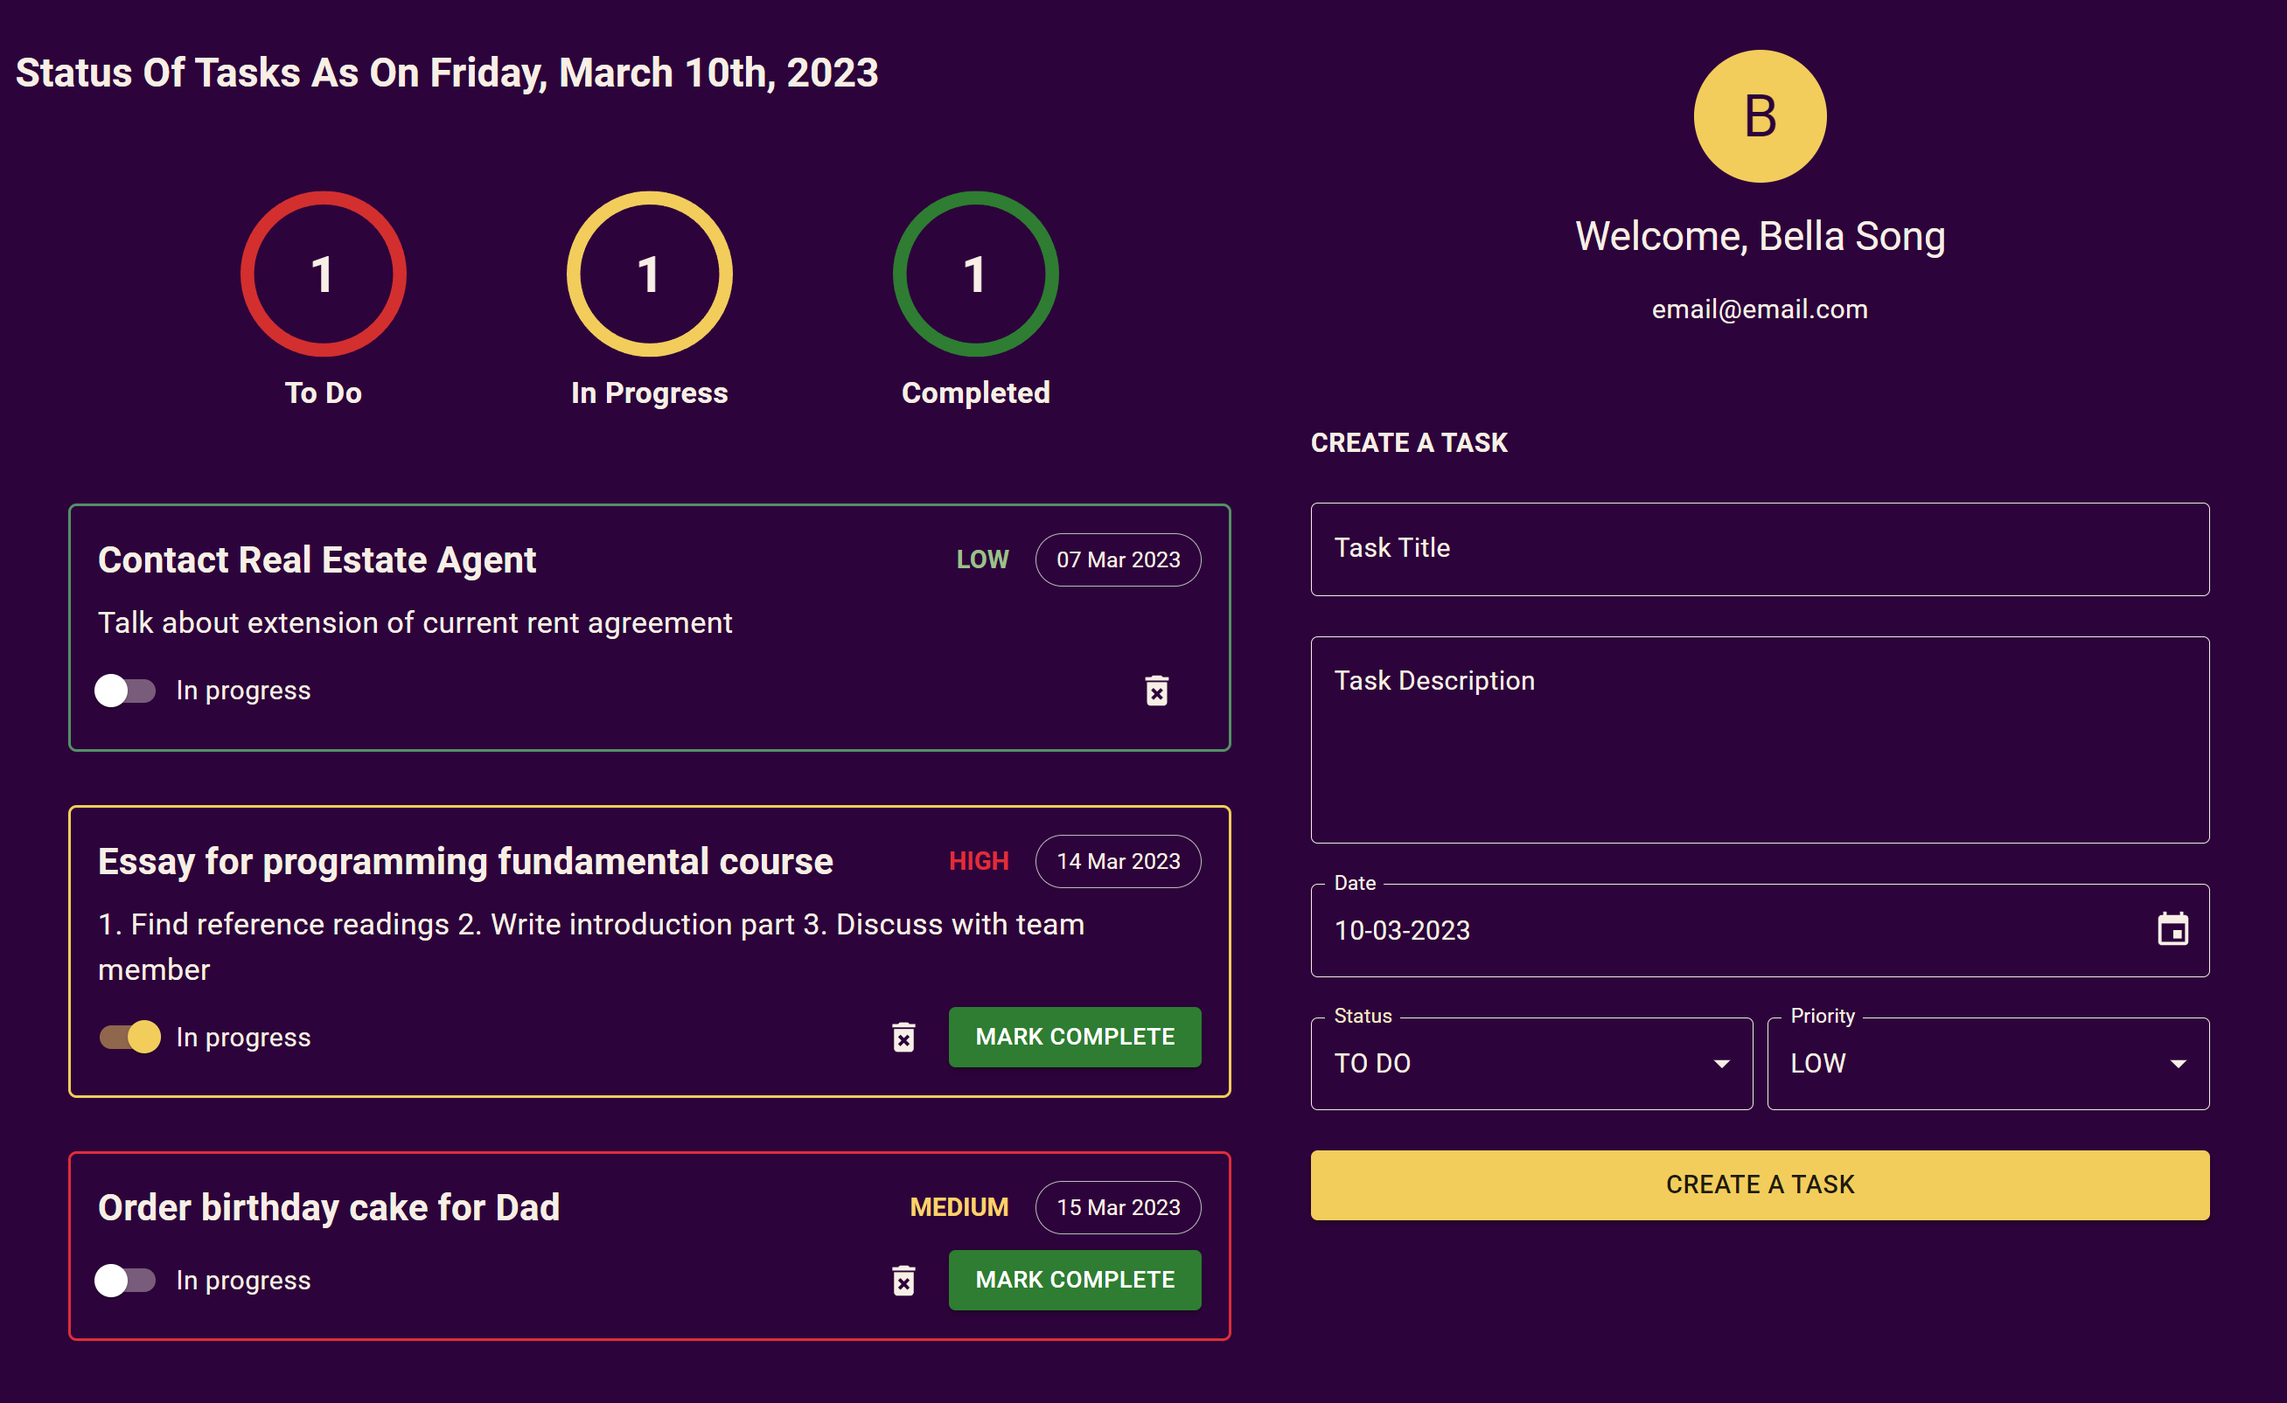
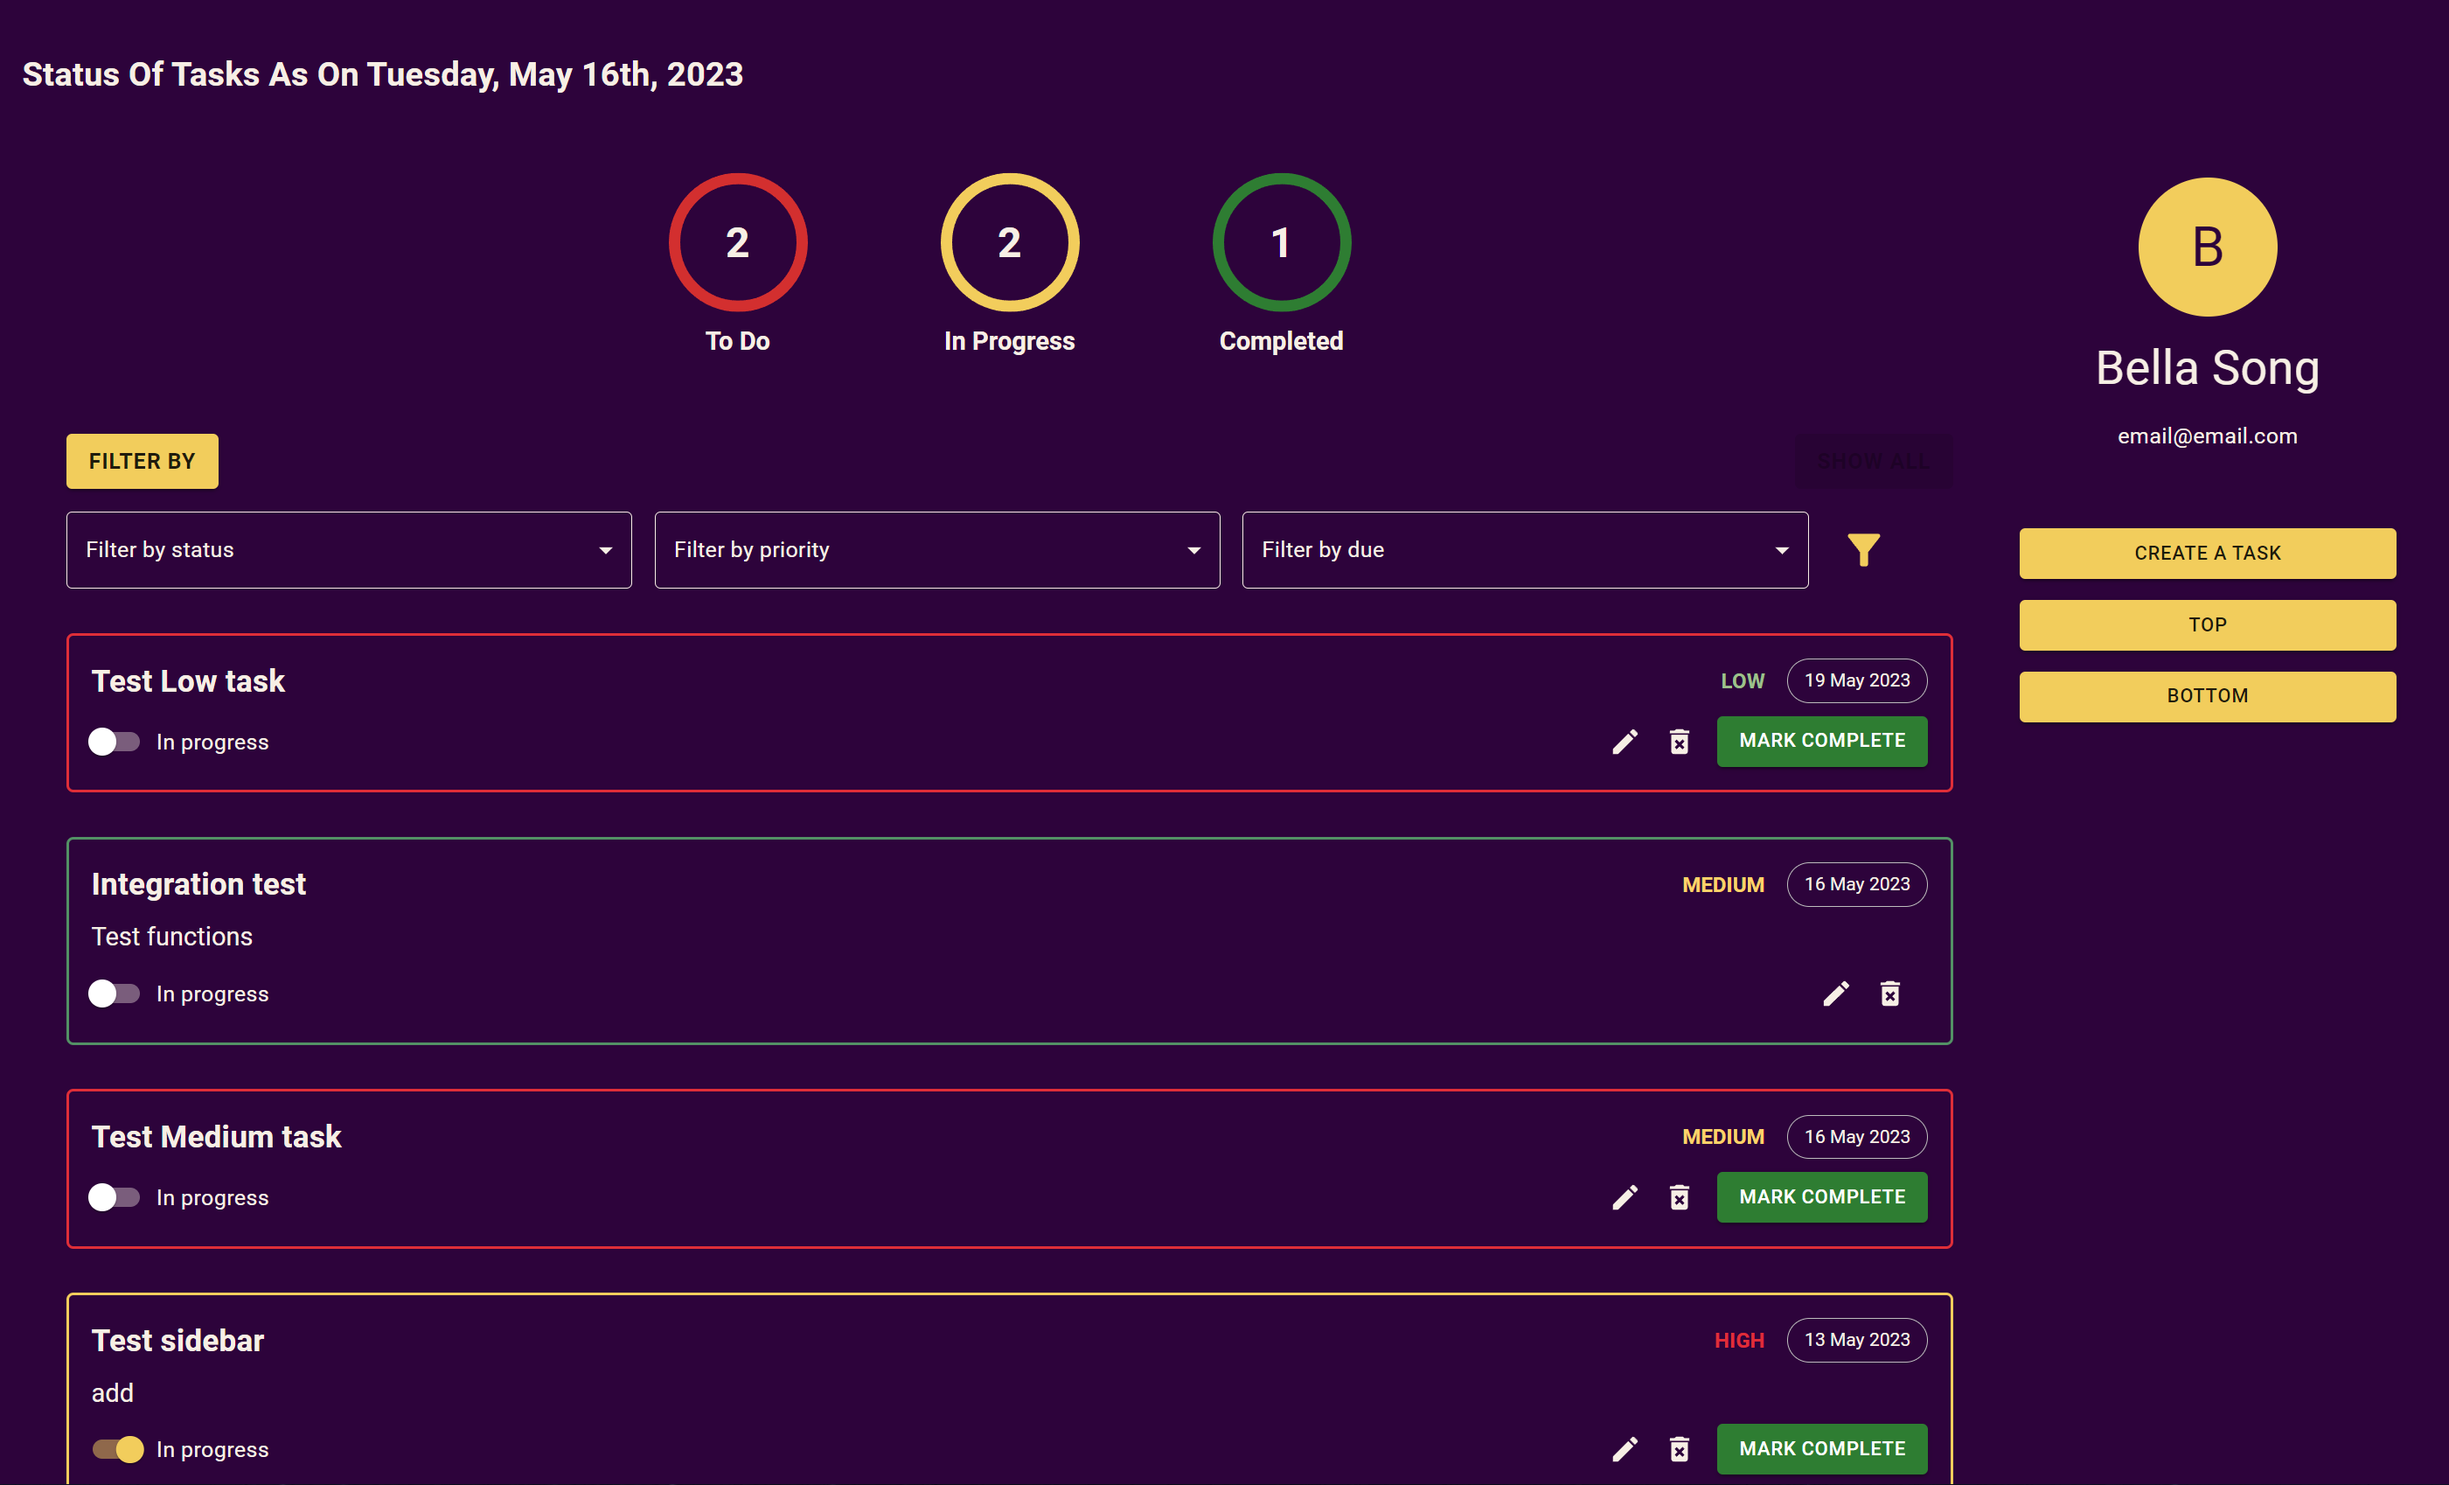
Update project information

diff --git a/index.html b/index.html
@@ -101,27 +101,22 @@
         <div class="card border-0">
           <div class="row g-0">
             <div class="col-md-4">
-              <img src="images/JPS.png" class="img-fluid rounded-start" />
+              <img src="images/JPS.png" class="img-fluid rounded" alt="jps" />
             </div>
             <div class="col-md-8">
               <div class="card-body">
-                <h5 class="card-title">Coachwise Application</h5>
+                <h5 class="card-title">Coachwise system</h5>
                 <ul>
                   <li>
                     A training system that includes a web application written by React and a mobile application by React
-                    Native. The backend APIs are built by Node, MariaDB and TypeScript. The applications are deployed on AWS.
+                    Native. The backend APIs are built by Node, MariaDB and TypeScript.
                   </li>
-                  <li>
-                    The web application can manage clients, create training plans for clients and view clients' training
-                    history, and create training programs for other coaches to copy and edit.
-                  </li>
-                  <li>
-                    The mobile application is for clients to view their training plans and give feedbacks to coaches. Every
-                    exercise in plans has embedded Youtube video.
-                  </li>
-                  <li>The user can send text messages and also record voice messages in the chat panel on both ends.</li>
                 </ul>
-                <small><i>Because of company's confidential reason, the code of this project cannot be provided</i></small>
+                <small
+                  ><i
+                    >Because of company's confidential reason, the code and details of this project cannot be provided</i
+                  ></small
+                >
               </div>
             </div>
           </div>
@@ -130,22 +125,23 @@
         <div class="card border-0">
           <div class="row g-0">
             <div class="col-md-4">
-              <img src="images/taskManage.png" class="img-fluid rounded-start" />
+              <img src="images/taskManage.png" class="img-fluid rounded mb-2" alt="task-manage" />
+              <img src="images/createTask.png" class="img-fluid rounded" alt="task-create" />
             </div>
             <div class="col-md-8">
               <div class="card-body">
                 <h5 class="card-title">Task Management</h5>
                 <ul>
                   <li>
-                    A simple web-based task management project built with React, Node, TypeScript and MySQL. Backend is
-                    structured in MVC and communicates with database through typeORM. Both ends use strict types to make data
-                    type safe.
+                    A web-based task management project built with React, Node, TypeScript and MySQL. Backend is structured
+                    in MVC and communicates with database through typeORM. Both ends use strict types to make data type safe.
                   </li>
+                  <!-- <li>Highlights include combining to-do list with traditional task management tools.</li> -->
                   <li>
-                    Users can create tasks, view all tasks, change the status of a task and see the counts of tasks based on
-                    different status. Any input errors or API call failed will show error information on the screen.
+                    Users can create tasks, view all tasks, edit one task, change the status of a task and filter tasks. Any
+                    input errors or API call failed will show error information on the screen.
                   </li>
-                  <li>Material UI makes the interface styles consistent and user-friendly.</li>
+                  <li>Material UI makes the style in interface consistent and user-friendly.</li>
                   <li>
                     This is a scalable and maintainable project with reusable components and well-structured REST APIs.
                   </li>
@@ -163,17 +159,17 @@
         <div class="card border-0">
           <div class="row g-0">
             <div class="col-md-4">
-              <img src="images/garden.png" class="img-fluid rounded-start" alt="..." />
+              <img src="images/garden.png" class="img-fluid rounded" alt="garden" />
             </div>
             <div class="col-md-8">
               <div class="card-body">
                 <h5 class="card-title">Gardening Online Shopping Website</h5>
                 <ul>
                   <li>An online shopping web application built by React 18 and Firebase.</li>
-                  <li>Users are able to browse items by categories, view one item and add to shopping carts</li>
+                  <li>Users are able to browse items by categories, view one item and add items to shopping carts</li>
                   <li>
                     The project uses React Context to manage cart and user states centrally to reduce the number of data
-                    fetch and to keep data up-to-date in every component
+                    fetch and to keep data up-to-date in each component
                   </li>
                 </ul>
                 <p class="card-text">
@@ -236,7 +232,7 @@
                 <h6>Web Widgets Practice</h6>
                 <small
                   >&#x2022; HTML, JavaScript, CSS<br />
-                  Widgets that can be used in web applications.
+                  A bunch of widgets that can be used in web applications.
                 </small>
               </div>
               <div class="item">
@@ -476,7 +472,7 @@
 
       <!-- Work Experience -->
       <section id="work">
-        <h2>Work Experience</h2>
+        <h2>Working Experience</h2>
         <div class="container">
           <div class="row">
             <div class="col-4">
